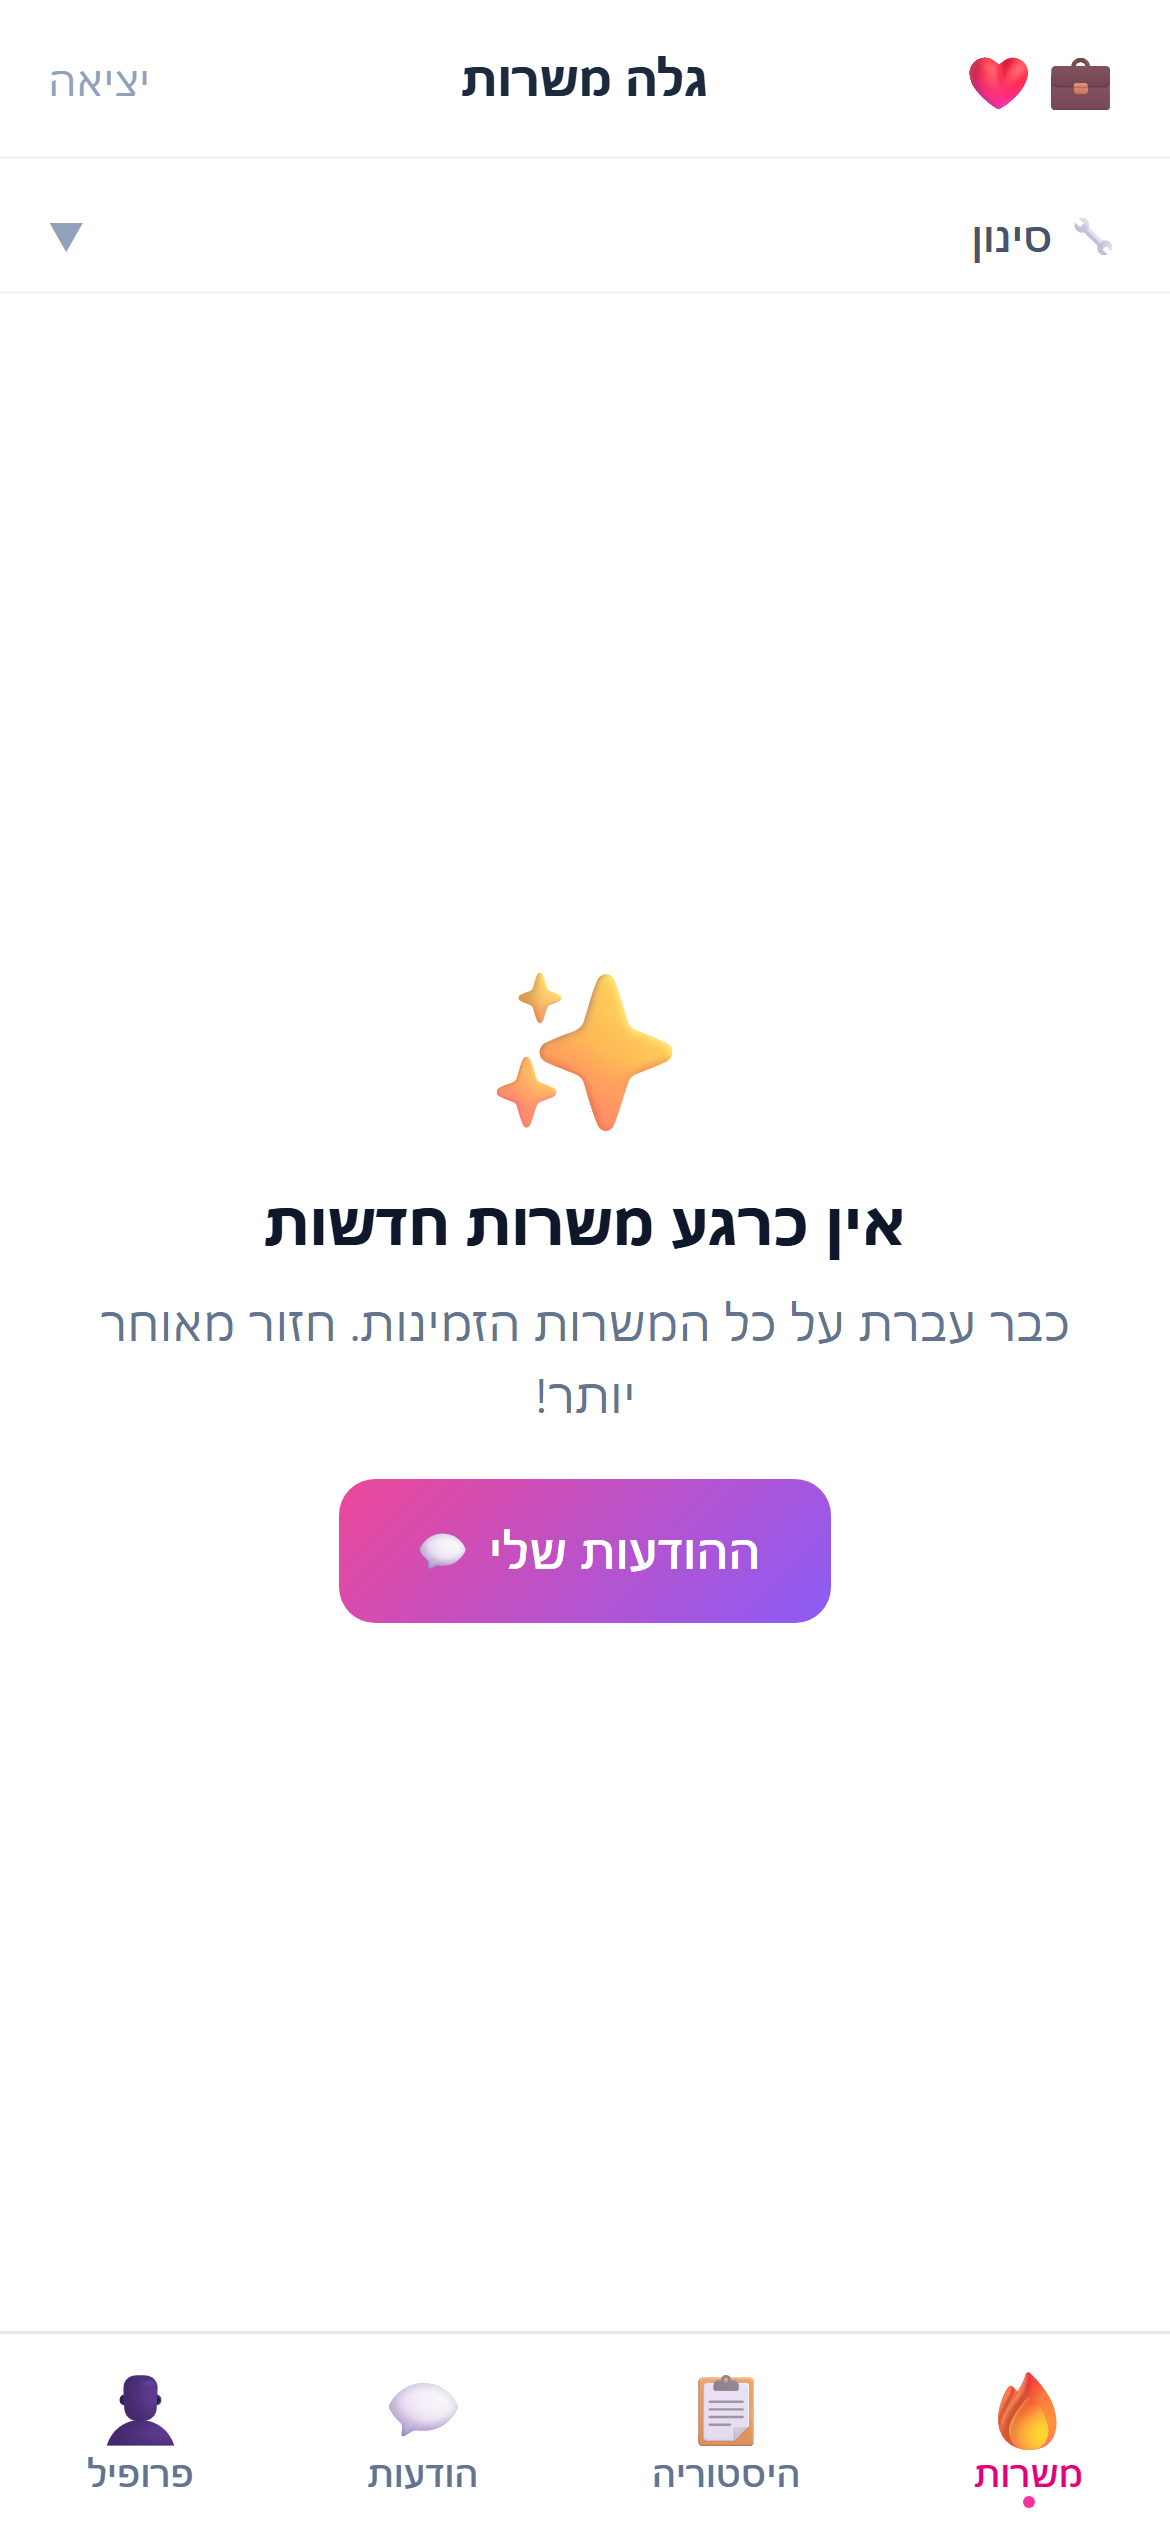
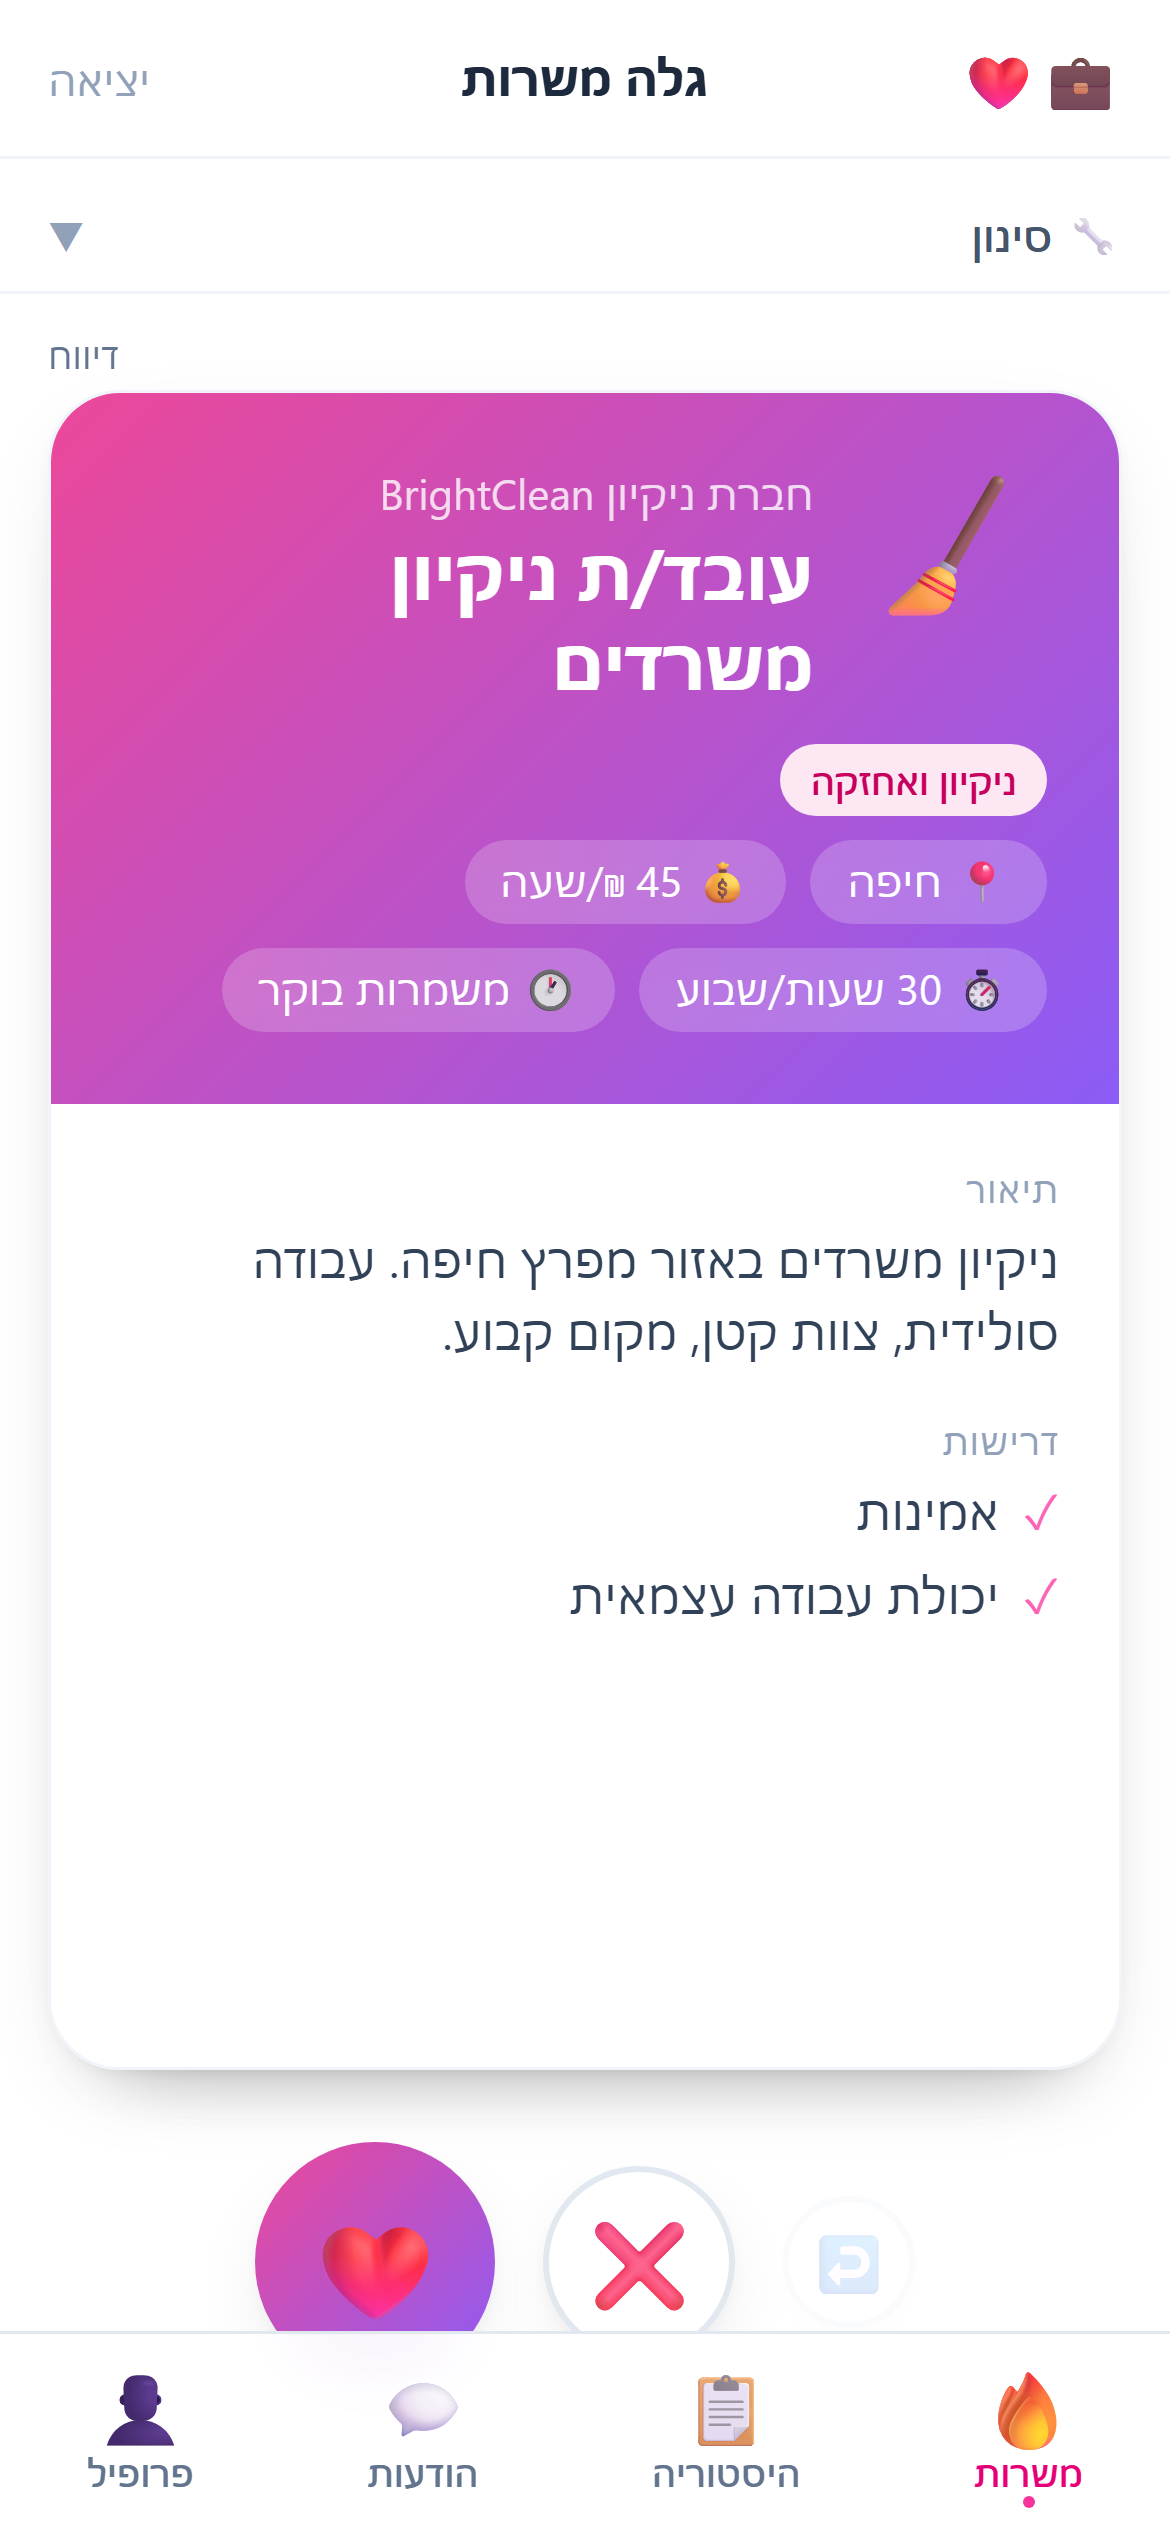
feat: Play Store feature graphic, SEO, HSTS, password-reset E2E
Play Store assets:
- scripts/gen-feature-graphic.ts → 1024×500 PNG with phone mockup + CTA
- Feature graphic written to playstore-feature-graphic.png
- Recaptured screenshots with amit@demo.com (noa's feed was empty from
  earlier manual testing) — 03-feed now shows a real job card

Native polish:
- Adaptive icon background recolored from white → brand pink (#ec4899),
  matches splash screen and themeColor

SEO + sharing:
- app/layout.tsx → full Open Graph + Twitter Card metadata, canonical
  URL, robots index:follow, formatDetection off, title template
- app/robots.ts → allow public pages, disallow /app, /admin, /api,
  /onboarding, /verify-email, /reset-password
- app/sitemap.ts → public pages with priorities

Security:
- next.config.ts → Strict-Transport-Security (2y, includeSubDomains)
  + Content-Security-Policy frame-ancestors 'self' (modern equivalent
  of X-Frame-Options)

Tests:
- e2e/password-reset.spec.ts → covers /forgot-password form contract,
  anti-enumeration response, validation, login→forgot link, invalid
  reset token doesn't crash

diff --git a/scripts/gen-feature-graphic.ts b/scripts/gen-feature-graphic.ts
@@ -1,0 +1,94 @@
+/**
+ * Generates the Play Store feature graphic at 1024×500.
+ * Required for every Play Store listing. Output: playstore-feature-graphic.png
+ *
+ * librsvg (Sharp's SVG backend) handles RTL inconsistently, so:
+ *   - Hebrew lines are pre-reversed and rendered with the default LTR flow
+ *     anchored to the LEFT — visually right-to-left because the Hebrew glyphs
+ *     themselves render in their natural reading direction.
+ *   - We anchor the text block on the left with the phone mockup on the right
+ *     for a balanced, readable layout regardless of script direction.
+ */
+import sharp from "sharp";
+import path from "path";
+
+const W = 1024;
+const H = 500;
+
+const svg = `<svg xmlns="http://www.w3.org/2000/svg" width="${W}" height="${H}" viewBox="0 0 ${W} ${H}">
+  <defs>
+    <linearGradient id="bg" x1="0%" y1="0%" x2="100%" y2="100%">
+      <stop offset="0%" stop-color="#ec4899"/>
+      <stop offset="55%" stop-color="#a855f7"/>
+      <stop offset="100%" stop-color="#8b5cf6"/>
+    </linearGradient>
+  </defs>
+
+  <!-- Background -->
+  <rect width="${W}" height="${H}" fill="url(#bg)"/>
+
+  <!-- Decorative circles -->
+  <circle cx="80" cy="60" r="120" fill="rgba(255,255,255,0.07)"/>
+  <circle cx="940" cy="440" r="180" fill="rgba(255,255,255,0.05)"/>
+
+  <!-- LEFT: Text block, anchored at x=70 -->
+  <text x="70" y="170" font-family="-apple-system, system-ui, 'Segoe UI', Arial, sans-serif"
+        font-weight="900" font-size="88" fill="#ffffff">JobSwipe</text>
+
+  <text x="70" y="230" font-family="-apple-system, system-ui, 'Segoe UI', Arial, sans-serif"
+        font-weight="700" font-size="36" fill="#ffffff">מוצאים עבודה בסוויפ</text>
+
+  <text x="70" y="290" font-family="-apple-system, system-ui, 'Segoe UI', Arial, sans-serif"
+        font-weight="400" font-size="22" fill="rgba(255,255,255,0.95)">החלק ימינה למשרה.</text>
+  <text x="70" y="318" font-family="-apple-system, system-ui, 'Segoe UI', Arial, sans-serif"
+        font-weight="400" font-size="22" fill="rgba(255,255,255,0.95)">Match = שיחה ישירה עם המעסיק.</text>
+  <text x="70" y="346" font-family="-apple-system, system-ui, 'Segoe UI', Arial, sans-serif"
+        font-weight="400" font-size="22" fill="rgba(255,255,255,0.95)">בלי קורות חיים. בלי מתווכים.</text>
+
+  <!-- Pink CTA pill -->
+  <rect x="70" y="395" width="220" height="50" rx="25" ry="25" fill="#ffffff"/>
+  <text x="180" y="427" text-anchor="middle" font-family="-apple-system, system-ui, 'Segoe UI', Arial, sans-serif"
+        font-weight="700" font-size="20" fill="#ec4899">התחילו עכשיו ✨</text>
+
+  <!-- RIGHT: Phone mockup at x=680 -->
+  <g transform="translate(680, 50)">
+    <!-- Phone outline with subtle shadow -->
+    <rect x="2" y="2" width="240" height="400" rx="32" ry="32" fill="rgba(0,0,0,0.25)"/>
+    <rect x="0" y="0" width="240" height="400" rx="32" ry="32" fill="#1f2937" stroke="rgba(255,255,255,0.25)" stroke-width="2"/>
+    <!-- Screen -->
+    <rect x="12" y="16" width="216" height="368" rx="22" ry="22" fill="#f9fafb"/>
+    <!-- Notch / dynamic island -->
+    <rect x="95" y="18" width="50" height="7" rx="3.5" ry="3.5" fill="#1f2937"/>
+
+    <!-- Card on screen -->
+    <rect x="26" y="42" width="188" height="226" rx="16" ry="16" fill="#ffffff" stroke="rgba(0,0,0,0.06)"/>
+    <!-- Category badge -->
+    <rect x="38" y="56" width="74" height="22" rx="11" ry="11" fill="#fed7aa"/>
+    <text x="75" y="71" text-anchor="middle" font-family="Arial" font-size="12" fill="#9a3412">מסעדנות</text>
+    <!-- Job title (rendered LTR but Hebrew chars flow correctly) -->
+    <text x="202" y="115" text-anchor="end" font-family="Arial" font-weight="700" font-size="17" fill="#1f2937">מלצר/ית</text>
+    <text x="202" y="140" text-anchor="end" font-family="Arial" font-size="13" fill="#6b7280">תל אביב</text>
+    <text x="202" y="158" text-anchor="end" font-family="Arial" font-size="13" fill="#6b7280">₪45/שעה</text>
+    <!-- Description dots -->
+    <circle cx="200" cy="185" r="2.5" fill="#22c55e"/>
+    <text x="190" y="190" text-anchor="end" font-family="Arial" font-size="11" fill="#4b5563">ניסיון של שנה</text>
+    <circle cx="200" cy="205" r="2.5" fill="#22c55e"/>
+    <text x="190" y="210" text-anchor="end" font-family="Arial" font-size="11" fill="#4b5563">משמרות גמישות</text>
+    <circle cx="200" cy="225" r="2.5" fill="#22c55e"/>
+    <text x="190" y="230" text-anchor="end" font-family="Arial" font-size="11" fill="#4b5563">בונוסים יפים</text>
+
+    <!-- Swipe buttons -->
+    <circle cx="70" cy="320" r="26" fill="#fee2e2"/>
+    <text x="70" y="328" text-anchor="middle" font-family="Arial" font-weight="700" font-size="22" fill="#ef4444">×</text>
+    <circle cx="170" cy="320" r="26" fill="#dcfce7"/>
+    <text x="170" y="328" text-anchor="middle" font-family="Arial" font-size="22">❤</text>
+  </g>
+</svg>`;
+
+async function main() {
+  const out = path.join(process.cwd(), "playstore-feature-graphic.png");
+  await sharp(Buffer.from(svg)).png().toFile(out);
+  console.log(`✓ ${out} (1024×500)`);
+}
+
+main().catch((e) => { console.error(e); process.exit(1); });

diff --git a/app/layout.tsx b/app/layout.tsx
@@ -1,10 +1,19 @@
 import type { Metadata, Viewport } from "next";
 import "./globals.css";
 
+const SITE_URL =
+  process.env.NEXT_PUBLIC_APP_URL ?? "https://jobswipe-production.up.railway.app";
+const TITLE = "JobSwipe — מוצאים עבודה בסוויפ";
+const DESCRIPTION =
+  "פלטפורמת גיוס מהירה לעבודות בישראל בסגנון swipe. מתאימים בין עובדים למעסיקים בלי קורות חיים מסובכים.";
+
 export const metadata: Metadata = {
-  title: "JobSwipe — מוצאים עבודה בסוויפ",
-  description:
-    "פלטפורמת גיוס מהירה לעבודות בישראל בסגנון swipe. מתאימים בין עובדים למעסיקים בלי קורות חיים מסובכים.",
+  metadataBase: new URL(SITE_URL),
+  title: { default: TITLE, template: "%s · JobSwipe" },
+  description: DESCRIPTION,
+  applicationName: "JobSwipe",
+  authors: [{ name: "JobSwipe" }],
+  keywords: ["חיפוש עבודה", "משרות", "גיוס", "JobSwipe", "swipe jobs", "tinder jobs"],
   manifest: "/manifest.webmanifest",
   appleWebApp: {
     capable: true,
@@ -17,9 +26,38 @@ export const metadata: Metadata = {
       { url: "/icons/icon-512.png", sizes: "512x512", type: "image/png" },
       { url: "/icons/icon.svg", type: "image/svg+xml" },
     ],
-    // iOS Safari uses apple-touch-icon (must be PNG, 180×180)
     apple: "/icons/apple-touch-icon.png",
   },
+  // Open Graph — for WhatsApp / Facebook / LinkedIn link previews
+  openGraph: {
+    type: "website",
+    locale: "he_IL",
+    url: SITE_URL,
+    siteName: "JobSwipe",
+    title: TITLE,
+    description: DESCRIPTION,
+    images: [
+      {
+        url: "/icons/icon-512.png",
+        width: 512,
+        height: 512,
+        alt: "JobSwipe — מוצאים עבודה בסוויפ",
+      },
+    ],
+  },
+  // Twitter Card — for X (Twitter) link previews
+  twitter: {
+    card: "summary_large_image",
+    title: TITLE,
+    description: DESCRIPTION,
+    images: ["/icons/icon-512.png"],
+  },
+  // Allow crawlers (production app — we want to be indexed)
+  robots: { index: true, follow: true },
+  alternates: { canonical: SITE_URL },
+  // Default "format detection" off — prevents iOS from auto-linking
+  // unrelated text as phone/email links inside our app surfaces.
+  formatDetection: { telephone: false, email: false, address: false },
 };
 
 // viewport must be exported separately in Next.js 15+

diff --git a/e2e/password-reset.spec.ts b/e2e/password-reset.spec.ts
@@ -1,0 +1,54 @@
+/**
+ * E2E coverage for the forgot-password / reset-password flow.
+ * These tests verify the UI contract — they don't actually click an email
+ * link (email delivery happens out-of-band).
+ */
+import { test, expect } from "@playwright/test";
+
+test.describe("forgot password", () => {
+  test("page loads with email input", async ({ page }) => {
+    await page.goto("/forgot-password");
+    await expect(page.getByLabel(/אימייל|email/i)).toBeVisible();
+    await expect(
+      page.getByRole("button", { name: /שלח|איפוס|reset/i })
+    ).toBeVisible();
+  });
+
+  test("submitting any email shows success without revealing existence", async ({ page }) => {
+    await page.goto("/forgot-password");
+    await page.getByLabel(/אימייל|email/i).fill("does-not-exist@example.com");
+    await page.getByRole("button", { name: /שלח|איפוס|reset/i }).click();
+    // Should show a success/confirmation message even for unknown emails
+    // (anti-enumeration). Look for "אם" / "if" / "נשלח" / "sent" cues.
+    await expect(
+      page.getByText(/אם|אימייל נשלח|sent|בדוק|נשלחה/i)
+    ).toBeVisible({ timeout: 8_000 });
+  });
+
+  test("submitting an invalid email shows validation error", async ({ page }) => {
+    await page.goto("/forgot-password");
+    await page.getByLabel(/אימייל|email/i).fill("not-an-email");
+    await page.getByRole("button", { name: /שלח|איפוס|reset/i }).click();
+    // Native browser validation OR server-side zod validation
+    const stillOnForgot = page.url().includes("/forgot-password");
+    expect(stillOnForgot).toBeTruthy();
+  });
+
+  test("login page has a link to forgot-password", async ({ page }) => {
+    await page.goto("/login");
+    const link = page.getByRole("link", { name: /שכחתי|forgot/i });
+    await expect(link).toBeVisible();
+    await expect(link).toHaveAttribute("href", /\/forgot-password/);
+  });
+});
+
+test.describe("reset password (invalid token)", () => {
+  test("invalid token shows error", async ({ page }) => {
+    await page.goto("/reset-password/this-token-does-not-exist-anywhere");
+    // The page should still render (no 500), and either show an inline error
+    // OR present a form that errors out when submitted with this bad token.
+    // We check that the page didn't crash.
+    const status = page.url();
+    expect(status).toContain("/reset-password/");
+  });
+});

diff --git a/app/sitemap.ts b/app/sitemap.ts
@@ -1,0 +1,17 @@
+import type { MetadataRoute } from "next";
+
+const SITE_URL =
+  process.env.NEXT_PUBLIC_APP_URL ?? "https://jobswipe-production.up.railway.app";
+
+export default function sitemap(): MetadataRoute.Sitemap {
+  const now = new Date();
+  return [
+    { url: `${SITE_URL}/`, lastModified: now, changeFrequency: "weekly", priority: 1.0 },
+    { url: `${SITE_URL}/signup`, lastModified: now, changeFrequency: "monthly", priority: 0.8 },
+    { url: `${SITE_URL}/login`, lastModified: now, changeFrequency: "monthly", priority: 0.6 },
+    { url: `${SITE_URL}/legal/privacy`, lastModified: now, changeFrequency: "yearly", priority: 0.3 },
+    { url: `${SITE_URL}/legal/terms`, lastModified: now, changeFrequency: "yearly", priority: 0.3 },
+    { url: `${SITE_URL}/legal/data-deletion`, lastModified: now, changeFrequency: "yearly", priority: 0.3 },
+    { url: `${SITE_URL}/legal/accessibility`, lastModified: now, changeFrequency: "yearly", priority: 0.3 },
+  ];
+}

diff --git a/next.config.ts b/next.config.ts
@@ -22,6 +22,13 @@ const nextConfig: NextConfig = {
           { key: "X-Frame-Options", value: "SAMEORIGIN" },
           { key: "Referrer-Policy", value: "strict-origin-when-cross-origin" },
           { key: "Permissions-Policy", value: "camera=(), microphone=(), geolocation=()" },
+          // HSTS — Railway terminates TLS but doesn't add HSTS itself.
+          // 2-year max-age + includeSubDomains is the standard recommendation
+          // once you're confident every subdomain serves HTTPS.
+          { key: "Strict-Transport-Security", value: "max-age=63072000; includeSubDomains" },
+          // Block embedding via legacy CSP frame-ancestors (X-Frame-Options is
+          // deprecated in modern browsers but still respected by older ones).
+          { key: "Content-Security-Policy", value: "frame-ancestors 'self'" },
         ],
       },
     ];

diff --git a/app/robots.ts b/app/robots.ts
@@ -1,0 +1,26 @@
+import type { MetadataRoute } from "next";
+
+const SITE_URL =
+  process.env.NEXT_PUBLIC_APP_URL ?? "https://jobswipe-production.up.railway.app";
+
+export default function robots(): MetadataRoute.Robots {
+  return {
+    rules: [
+      {
+        userAgent: "*",
+        allow: "/",
+        // Don't index private/authenticated areas.
+        disallow: [
+          "/app/",
+          "/admin/",
+          "/api/",
+          "/onboarding/",
+          "/verify-email/",
+          "/reset-password/",
+        ],
+      },
+    ],
+    sitemap: `${SITE_URL}/sitemap.xml`,
+    host: SITE_URL,
+  };
+}

diff --git a/scripts/capture-screenshots.ts b/scripts/capture-screenshots.ts
@@ -58,8 +58,10 @@ async function main() {
   await go(page, `${BASE}/login`);
   await shoot(page, "02-login");
 
-  console.log("\nCandidate (noa@demo.com):");
-  await login(page, "noa@demo.com", "demo1234");
+  // Use amit@demo.com instead of noa — noa has been used for manual testing
+  // and her feed is already empty.
+  console.log("\nCandidate (amit@demo.com):");
+  await login(page, "amit@demo.com", "demo1234");
 
   await go(page, `${BASE}/app/feed`);
   await shoot(page, "03-feed");
